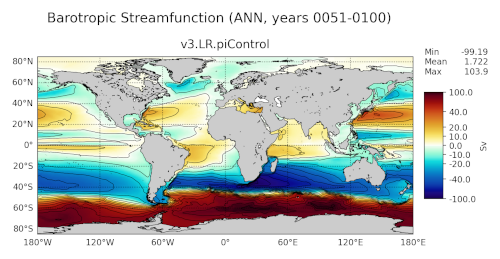
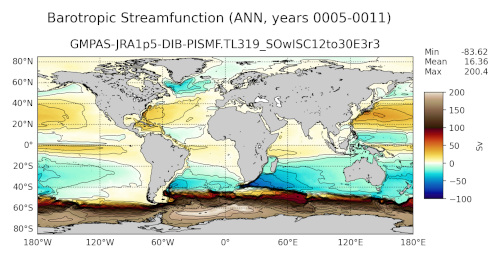
Update the docs

diff --git a/docs/users_guide/tasks/climatologyMapBSF.rst b/docs/users_guide/tasks/climatologyMapBSF.rst
@@ -21,22 +21,25 @@ The following configuration options are available for this task::
   ## (if available)
 
   # colormap for model/observations
-  colormapNameResult = blue-orange-div
+  colormapNameResult = 3wave-blue-red-brown
   # whether the colormap is indexed or continuous
   colormapTypeResult = continuous
   # color indices into colormapName for filled contours
   # the type of norm used in the colormap
-  normTypeResult = symLog
+  normTypeResult = linear
   # A dictionary with keywords for the norm
-  normArgsResult = {'linthresh': 30., 'linscale': 0.5, 'vmin': -100., 'vmax': 100.}
-  colorbarTicksResult = [-100.,-40., -20., -10., 0., 10., 20., 40., 100.]
+  normArgsResult = {'vmin': -100, 'vmax': 200.}
   # Adding contour lines to the figure
-  contourLevelsResult = np.arange(-100., 101.0, 10.)
+  contourLevelsResult = np.arange(-100., 201.0, 10.)
   contourThicknessResult = 0.5
   contourColorResult = black
-  # Add arrows to contour lines
-  # whether to include arrows on the contour lines showing the direction of flow
-  arrowsOnContourResult = True
+  # The spacing (in meters) between arrows on contours in projection plots
+  # (None to disable)
+  arrowSpacingResult = 8e5
+  # The width (in meters) of arrows on contours in projection plots (None to
+  # disable)
+  arrowWidthResult = 1.5e4
+
   # colormap for differences
   colormapNameDifference = cmo.balance
   # whether the colormap is indexed or continuous
@@ -54,18 +57,76 @@ The following configuration options are available for this task::
   # comparison grid(s) on which to plot analysis
   comparisonGrids = ['latlon', 'subpolar_north_atlantic']
 
-  # list of tuples(pairs) of depths (min, max) to integrate horizontal transport over
-  depthRanges = [(0.0, -10000.0), (0.0, -2000.0)]
+  # list of tuples(pairs) of depths (min, max) to integrate horizontal transport
+  # over
+  depthRanges = [(10.0, -10000.0), (10.0, -2000.0)]
 
-  # minimum latitude (degrees) above which the mean BSF on boundary vertices
-  # averages to zero
-  minLatitudeForZeroBSF = -45.0
+  # minimum and maximum latitude (degrees) between which the mean BSF on boundary
+  # vertices averages to zero
+  latitudeRangeForZeroBSF = (-45.0, 90.0)
 
 
 By default, the BSF is computed over two depth ranges---the full depth of
 the ocean and only to 2000 m.  By default, global and subpolar North Atlantic
 plots are produced.  The BSF is constrained to have a mean value on coastal
-boundaries of zero north of ``minLatitudeForZeroBSF``.
+boundaries between the bounds set in ``latitudeRangeForZeroBSF``.
+
+You can set config options for individual comparison grids in a separate
+seciton with the suffix associated with the comparison grid appended, e.g.::
+
+  [climatologyMapBSF]
+  ## options related to plotting horizontally remapped climatologies of
+  ## the barotropic streamfunction (BSF) against control model results
+  ## (if available)
+
+  # comparison grid(s) on which to plot analysis
+  comparisonGrids = ['latlon', 'arctic_extended', 'antarctic_extended',
+                    'subpolar_north_atlantic', 'fris']
+
+  [climatologyMapBSFAntarcticExtended]
+  ## options related to plotting Antarctic climatologies of the barotropic
+  ## streamfunction (BSF)
+
+  # colormap for model/observations
+  colormapNameResult = blue-orange-div
+  # whether the colormap is indexed or continuous
+  colormapTypeResult = continuous
+  # color indices into colormapName for filled contours
+  # the type of norm used in the colormap
+  normTypeResult = symLog
+  # A dictionary with keywords for the norm
+  normArgsResult = {'linthresh': 30., 'linscale': 0.5, 'vmin': -150., 'vmax': 150.}
+  colorbarTicksResult = [-150., -100.,-60., -40., -20., -10., 0., 10., 20., 40., 60., 100., 150.]
+  # Adding contour lines to the figure
+  contourLevelsResult = np.arange(-150., 150.1, 10.)
+  contourThicknessResult = 0.5
+  contourColorResult = black
+  # The spacing (in meters) between arrows on contours in projection plots
+  # (None to disable)
+  arrowSpacingResult = 8e5
+  # The width (in meters) of arrows on contours in projection plots (None to
+  # disable)
+  arrowWidthResult = 1.5e4
+
+  # colormap for differences
+  colormapNameDifference = cmo.balance
+  # whether the colormap is indexed or continuous
+  colormapTypeDifference = continuous
+  # the type of norm used in the colormap
+  normTypeDifference = linear
+  # A dictionary with keywords for the norm
+  normArgsDifference = {'vmin': -10., 'vmax': 10.}
+  # colorbarTicksDifference = numpy.linspace(-10., 10., 9)
+
+  # minimum and maximum latitude (degrees) between which the mean BSF on boundary
+  # vertices averages to zero
+  latitudeRangeForZeroBSF = (-90.0, -60.0)
+
+You must define both a new set of colormaps, norms, etc. and a new range of
+latitudes over which the BSF is constrained to have a mean value of zero.
+
+This is useful because plots are more intuitive if the BSF is close to zero
+at local boundaries.
 
 For more details, see:
  * :ref:`config_colormaps`
